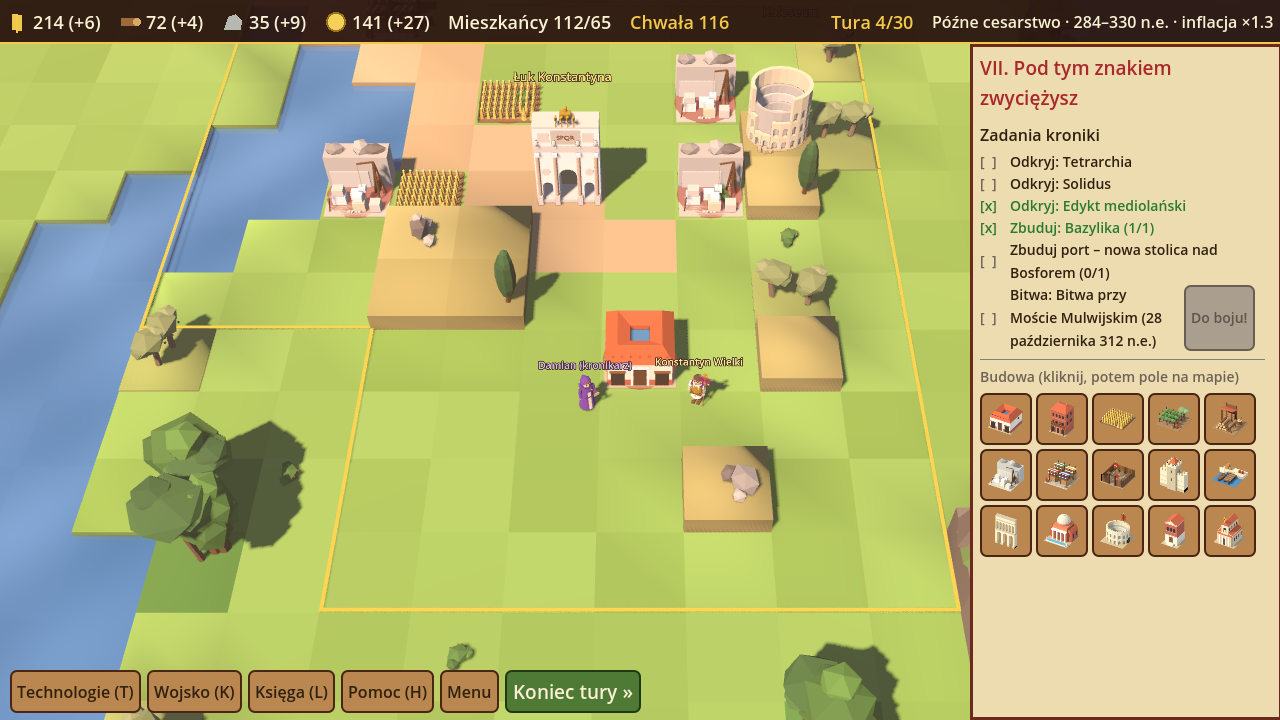
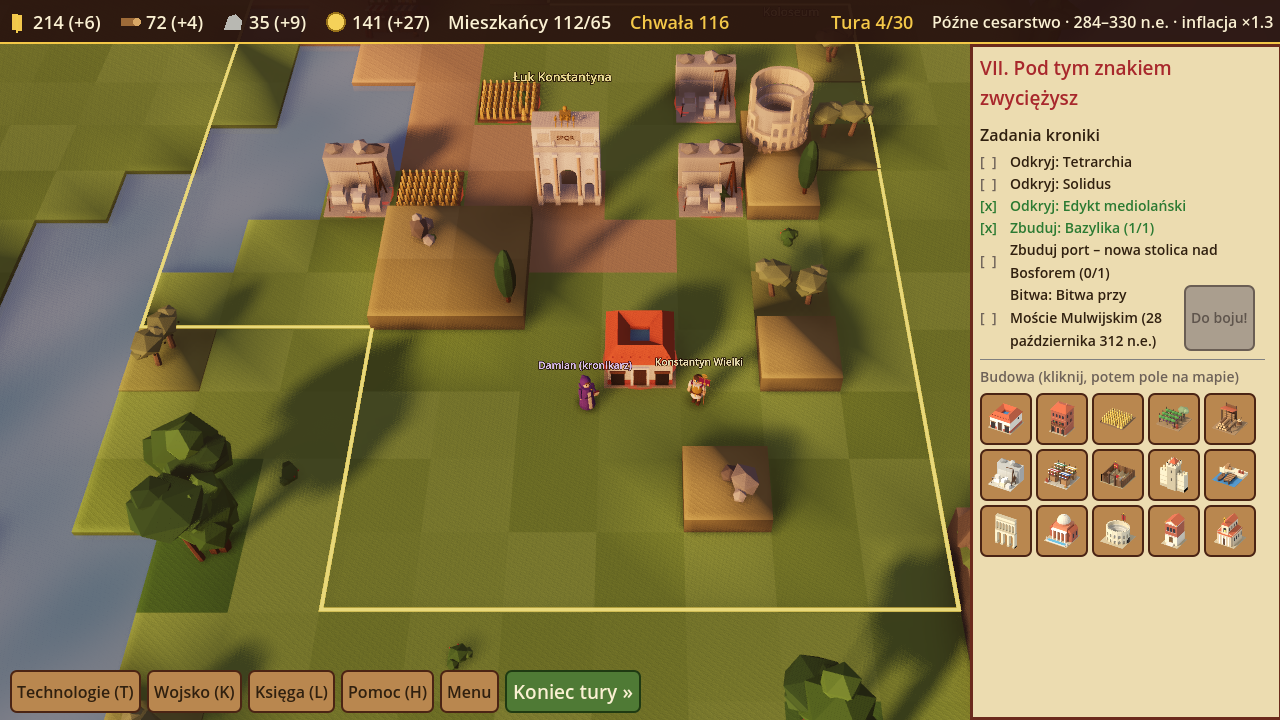
Roman Empire 3D: oświetlenie – WorldEnvironment, SSAO, ACES, glow, niskie ciepłe słońce
- WorldEnvironment z ProceduralSky jako źródłem światła otoczenia i odbić,
  tonemapping ACES, SSAO, lekki glow (softlight), delikatna mgła powietrzna
- słońce nisko (22–34° zależnie od epoki), ciepła barwa, miękkie cienie
  (PCSS, shadow_blur, 4 kaskady), osobny klimat każdej epoki
- renderer Forward+ na komputer (z powrotem do OpenGL bez Vulkana),
  GL Compatibility w przeglądarce (rendering_method.web)
- w przeglądarce, gdzie nie ma SSAO: miękkie cienie kontaktowe pod budynkami,
  postaciami i oddziałami oraz korekta ekspozycji
- nowe zrzuty ekranu (Forward+), workflow robi zrzuty w GL Compatibility

Claude-Session: https://claude.ai/code/session_01HT9RCQ9Ckd1riJVCiqzjVo

diff --git a/rzym3d/README.md b/rzym3d/README.md
@@ -19,6 +19,19 @@ Gra działa **w przeglądarce** (eksport HTML5) i jako **`RomanEmpire3D.exe`** n
 ![Bitwa](zrzuty/13_bitwa_starcie.png)
 ![Gra wieloosobowa](zrzuty/14_wieloosobowa.png)
 
+## Oświetlenie
+
+Scena ma `WorldEnvironment` z niebem proceduralnym (`ProceduralSky`), które jest źródłem światła otoczenia i odbić,
+tonemapping **ACES**, **SSAO** (cień w miejscach styku obiektów z ziemią), lekki **glow** (miękki blask) i delikatną mgłę
+powietrzną. Słońce stoi nisko (22–34° zależnie od epoki), ma ciepłą barwę i rzuca **miękkie cienie** (PCSS i rozmycie,
+4 kaskady). Każda epoka ma własny klimat – od jasnego południa Królestwa po złoty zmierzch późnego cesarstwa.
+
+- **Komputer (EXE):** renderer **Forward+** – pełne SSAO, glow i cienie PCSS. Bez Vulkana/D3D12 gra sama przełącza się
+  na OpenGL.
+- **Przeglądarka:** renderer **GL Compatibility** (WebGL 2), w którym Godot nie ma SSAO. Styk z ziemią przyciemniają
+  tam miękkie cienie kontaktowe pod budynkami, postaciami i oddziałami, a ekspozycja jest dobrana tak, żeby scena
+  wyglądała podobnie jak w Forward+.
+
 ## Rozdziały
 
 | # | Lata | Epoka | Rozdział | Zadania i bitwa |

diff --git a/rzym3d/AGENTS.md b/rzym3d/AGENTS.md
@@ -2,7 +2,7 @@
 
 Gra **„Roman Empire — od narodzin przez rozkwit aż po upadek”** (seria *Kroniki Damiana Ścisła*) — edukacyjna
 turowa strategia 3D o starożytnym Rzymie (753 p.n.e. – 476 n.e.) dla uczniów 10–14 lat. Język gry, kodu
-i komentarzy: **polski**. Silnik: **Godot 4.3** (GDScript, renderer *GL Compatibility*, eksport Web + Windows),
+i komentarzy: **polski**. Silnik: **Godot 4.3** (GDScript, renderer *Forward+* na komputer i *GL Compatibility* w przeglądarce – `rendering_method.web`; oświetlenie w `_otoczenie()`/`_ustaw_klimat()` w `gra.gd`),
 modele: **Blender** (skrypt Pythona, działa w Blenderze 4.x i w module `bpy` 5.x).
 
 Rozgrywka jak w `../kroniki-damiana-scisla/` (mapa z kafli, tury, 4 zasoby, budynki poszerzające granice,
